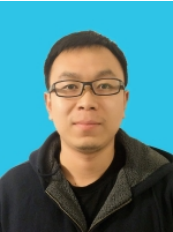
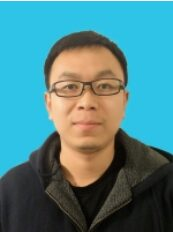
Co-author pages: shrink the portraits, cap their display size, add verified IDs
The 47 portraits are 1.28 MB and get used twice: as a 30%-wide portrait on
/authors/*, and as a 20x20 inline avatar on 193 author lines across 93 paper
pages, where liang-zheng.jpg alone ships 103 KB to paint a 20px circle.

Re-encoded the 10 that were oversized or overweight; each was only accepted if
the output was smaller AND stayed within PSNR 33-49 dB of a lossless resize of
the original. Three of them were mislabelled files (GIF or PNG sitting behind a
.jpg/.jpeg name) and are now actual JPEGs; all alpha was fully opaque, so
flattening is lossless. 665 KB -> 290 KB. The other 8 oversized files were left
alone: their originals are already smaller than any re-encode of them.

Display is now capped at 300px. The widescreen layer widened the content column
to 1375, so 30% had grown to 412px — 2.2x the natural width of most of these
sources. 300px equals what 1512 already rendered (294px), so laptop screens are
unchanged and only the 1920+ sizes stop growing. width='30%' also moved from the
attribute to CSS, which clears the last W3C error this page had (the width
attribute only accepts integers).

_data/coauthor_links.yml adds ORCID and self-declared homepages for 22 of the
47. Not a name guess: each entry required the ORCID record to be returned by a
search on a paper title we list, AND the name to match exactly, AND a re-read of
that record's works to confirm the title really is there (matched count is in a
[…]

Changed region(s): [[0.0, 0.0, 1.0, 0.0302], [0.7225, 0.3922, 0.7514, 0.4224], [0.2312, 0.3922, 0.2601, 0.4224]]

diff --git a/_layouts/single.html b/_layouts/single.html
@@ -180,15 +180,29 @@ layout: default
 		    现在只在 authors 集合里输出，主体是页面本人；og:image 移到 seo.html
 		    的 <head> 里（写在 body 里 Facebook/Twitter 不读）。
 		  {% endcomment %}
-		  <img src="{{ page.img }}" width="30%" alt="{{ page.title | escape_once }}">
+		  <img class="page-photo" src="{{ page.img }}" alt="{{ page.title | escape_once }}">
 		  {% if page.collection == 'authors' %}
+		  {% comment %}
+		    共作人的 ORCID / 主页来自 _data/coauthor_links.yml，只收录
+		    「姓名全等 + 该 ORCID 的作品列表里确有本站论文标题」双信号命中的记录，
+		    空记录（ORCID 作品对公众不可见）一律不猜。slug 取 URL 最后一段，
+		    因为 permalink 是 /authors/:path，而显示名与 slug 可能不一致。
+		  {% endcomment %}
+		  {% assign co_slug = page.url | split: "/" | last %}
+		  {% assign co_link = site.data.coauthor_links[co_slug] %}
+		  {% assign co_same = "" %}
+		  {% if co_link.orcid %}{% assign co_same = co_link.orcid | prepend: "https://orcid.org/" %}{% endif %}
+		  {% for u in co_link.urls %}
+		    {% if co_same == "" %}{% assign co_same = u %}{% else %}{% assign co_same = co_same | append: "|" | append: u %}{% endif %}
+		  {% endfor %}
 		  <script type="application/ld+json">
 		      {"@context": "https://schema.org",
 		        "@type": "Person",
 		        "@id": {{ page.url | absolute_url | append: "#person" | jsonify }},
 		        "name": {{ page.title | jsonify }},
 		        "image": {{ page.img | jsonify }},
-		        "url": {{ page.url | absolute_url | jsonify }}
+		        "url": {{ page.url | absolute_url | jsonify }}{% if co_same != "" %},
+		        "sameAs": [{% assign co_arr = co_same | split: "|" %}{% for x in co_arr %}{{ x | jsonify }}{% unless forloop.last %}, {% endunless %}{% endfor %}]{% endif %}
 		      }
 		  </script>
 		  {% endif %}

diff --git a/assets/css/main.scss b/assets/css/main.scss
@@ -184,6 +184,18 @@ $ct-asset-version: "{{ site.time | date: '%s' }}";
   padding: 0;
 }
 
+/* 作者页头像。原来写成 <img width="30%">，而 width 属性只接受整数像素
+   （W3C 校验器报 Bad value “30%”），浏览器只是容忍了这个历史怪癖。
+   改由 CSS 承担，渲染宽度不变；height:auto 让图片按原比例。
+   max-width 锁住大屏：宽屏层把内容列放宽到 1375 后，30% 会涨到 412px，
+   而原图多数只有 160–320px 宽，放大 2.2 倍以上必然发虚。
+   300px 等于 1512 视口下的现值（294px），所以 13"/16" 屏幕视觉零变化。 */
+.page-photo {
+  width: 30%;
+  max-width: 300px;
+  height: auto;
+}
+
 /* 宽屏层必须最后 import：靠层叠顺序与媒体查询覆盖上面的容器宽度。
    删除这一行 + _sass/_widescreen.scss 即可完全回退。 */
 @import "widescreen";
